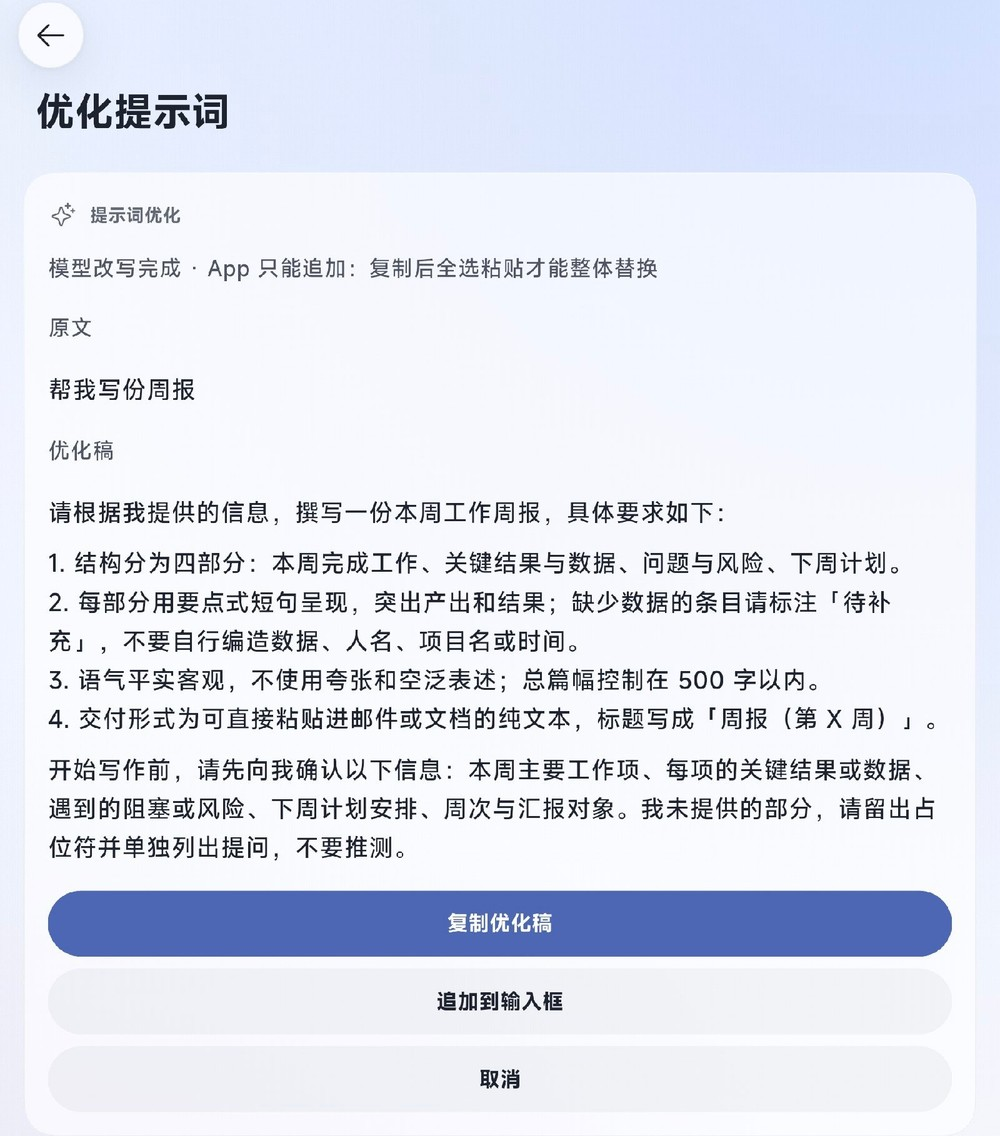
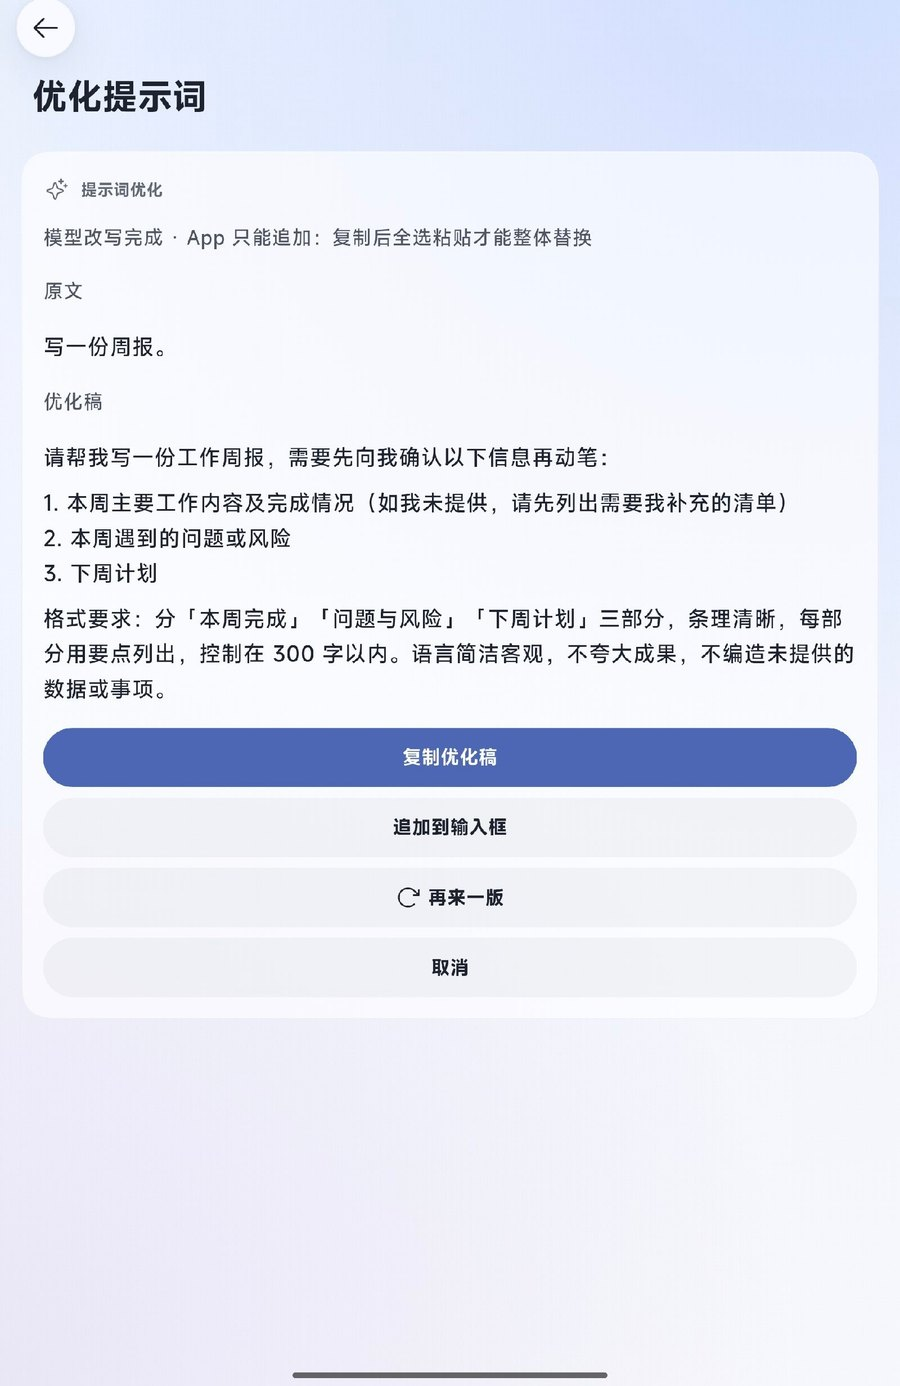
docs(1.6.0): 换两张真机截图（确认页四按钮 / 其他页上下文设置）
- confirm.jpg 换成 1.6.0 确认页：原文 / 优化稿 / 复制 · 追加 · 再来一版 · 取消
- settings-other.jpg 换成 1.6.0 其他页：含「读取最近几条消息」「上下文总字数上限」
- 两张都只裁掉顶栏状态栏，其余原样
- README 图注与介绍同步（确认页四按钮、上下文默认 8 条 / 1600 字、截图版本说明）
- CHANGELOG 记录截图更新

diff --git a/README.md b/README.md
@@ -16,13 +16,13 @@
 - **模型按来源分组**：会话默认 / 官方模型 / 其他来源（中转、第三方、聚合平台、识别不出的都归这里），可以点选、可以手填 provider + model、也可以「重新读取模型」；不改这里就跟随当前会话的模型。
 - **其他开关**：胶囊总开关、保留专有名词、保留代码与路径、确认页显示改写说明、附加指令（≤500 字）。
 - 所有设置写在插件目录的 `.config.json`（原子写、`gitignore`），**什么都不配时行为和 1.3.0 一样**。
-- **确认页可「再来一版」**：不满意就重跑，同一个草稿、同一套设置；重跑时页面显示「正在优化…」。
-- **上下文可自由设置**：读几条最近消息、总共多少字（默认 8 条 / 1600 字，与 1.3.0 一致），范围 1–32 条、200–8000 字。
+- **确认页可「再来一版」**：不满意就重跑，同一个草稿、同一套设置；重跑时页面显示「正在优化…」，旧结果不会被当成新结果。确认页现在四个按钮：复制优化稿 / 追加到输入框 / 再来一版 / 取消。
+- **上下文可自由设置**：读几条最近消息（1–32）、总共多少字（200–8000），默认 8 条 / 1600 字，与 1.3.0 一致。
 - 1.5.3 的稳定性修复也在：模型列表 60 秒自动重试 +「重新读取模型」、大列表裁剪不越限、设置页按会话隔离、模型超时自动回落本地稿；视图里任何列表都保证非空（空列表会被 App 画成「暂无数据」，有回归测试盯着）。
 
 > 仓库 `dsh-go-prompt-polish` · 插件包名 `local-prompt-polish`（安装目录用这个名字）
 
-![确认页（真机截图）：原文 / 优化稿 / 三个按钮](docs/preview/confirm.jpg)
+![确认页（真机截图）：原文 / 优化稿 / 复制 · 追加 · 再来一版 · 取消](docs/preview/confirm.jpg)
 
 ---
 
@@ -98,7 +98,7 @@ dsh-go 原生插件的 effect 白名单只有 `insert` / `copy` / `toast` / `com
 
 ![设置页 · 预设](docs/preview/settings-presets.jpg)
 
-真机截图（App 1.0.15）· 1.5.3 · 只裁掉了系统状态栏（图为 1.5.2 界面，1.5.3 的模型页多了「重新读取模型」按钮）
+真机截图（App 1.0.15）· 1.6.0 · 只裁掉了系统状态栏（预设 / 长度 / 模型页截图取自 1.5.2–1.5.3，功能未变；「其他」页与确认页为 1.6.0）
 
 | 长度 | 模型 | 其他 |
 |---|---|---|

diff --git a/README.en.md b/README.en.md
@@ -10,7 +10,7 @@ No message is sent · your conversation is not modified · no extra network call
 
 > Repository `dsh-go-prompt-polish` · plugin package `local-prompt-polish` (that is the install directory name).
 
-![confirmation page (real device screenshot)](docs/preview/confirm.jpg)
+![confirmation page (real device screenshot): draft, rewrite, and four buttons](docs/preview/confirm.jpg)
 
 ## What it does
 
@@ -48,7 +48,7 @@ Post-processing strips a leading restatement of the draft; a pure echo is treate
 
 ![settings page · presets](docs/preview/settings-presets.jpg)
 
-On-device screenshot (app 1.0.15) · 1.5.3 · only the system status bar was cropped (the shot shows 1.5.2 UI; 1.5.3 adds a “Reload models” button)
+On-device screenshot (app 1.0.15) · 1.6.0 · only the system status bar was cropped (preset/length/model shots come from 1.5.2–1.5.3 and are unchanged; “More” and the confirm page are 1.6.0)
 
 | Length | Model | More |
 |---|---|---|

diff --git a/CHANGELOG.md b/CHANGELOG.md
@@ -6,6 +6,7 @@
 - **上下文长度可自由设置**：`contextMessages`（1–32，默认 8）与 `contextChars`（200–8000，默认 1600）写进设置页「其他」，默认值与 1.3.0 一致；越界输入整单拒绝并提示范围
 - 长度「中等」保持原样（≤3 倍、≤600 字，硬上限 1900），未改动
 - 自测 179 → 191 项（再来一版、上下文条数/字数、配置边界、设置页保存与拒绝）
+- 截图更新：确认页换成四个按钮的新图、设置「其他」页补上上下文设置；两张都只裁掉系统状态栏
 
 ## 1.5.3 — 按外部审计修 P1/P2 与一批 P3
 
